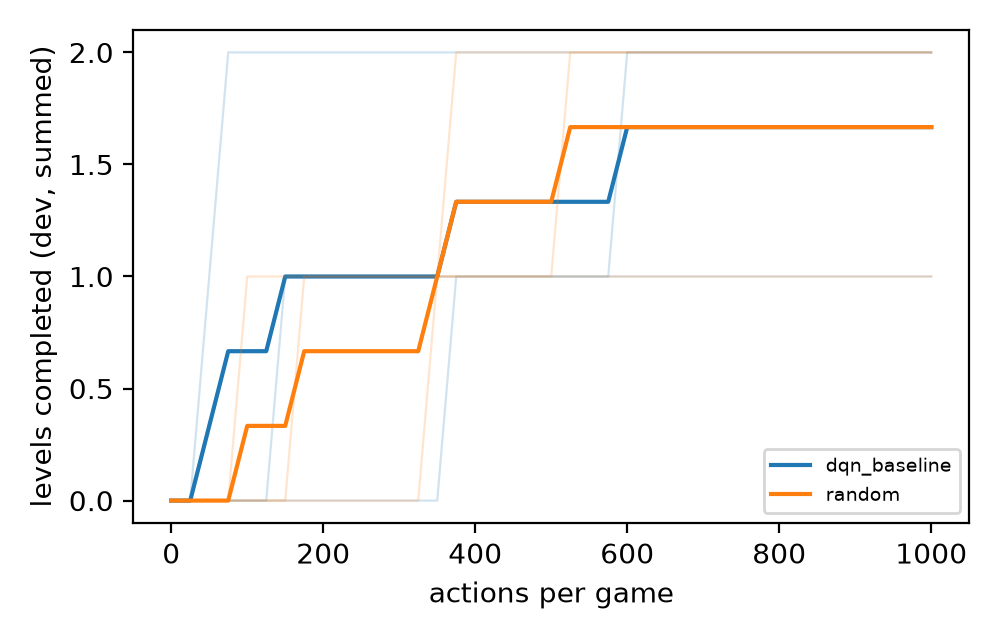
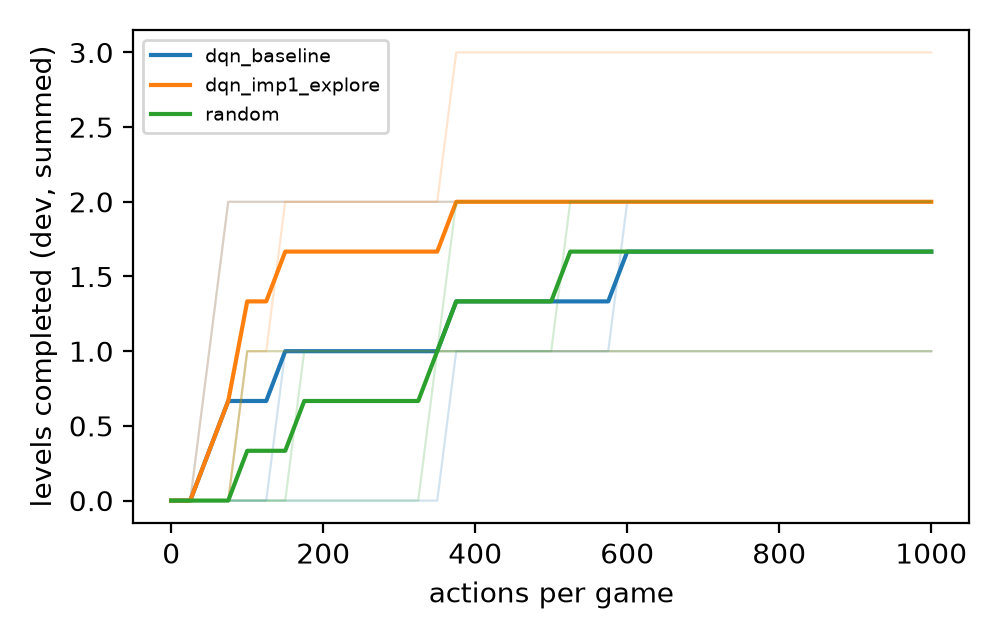
worked on improvement 1

diff --git a/scripts/diagnose_changes.py b/scripts/diagnose_changes.py
@@ -1,0 +1,113 @@
+#!/usr/bin/env python
+"""Where do frames change under a random policy? Dev games only.
+
+Tests whether per-step frame changes are driven by the agent or by a HUD/clock (e.g. a move counter),
+which would make frame-hash novelty and the frame-change bonus uninformative.
+Writes outputs/figures/change_heatmaps.png and outputs/figures/change_diagnostics.csv.
+"""
+import argparse
+from pathlib import Path
+
+import _common
+import numpy as np
+import pandas as pd
+
+from arcrl.env.actions import ActionSpace
+from arcrl.env.obs import Obs, grid_hash
+from arcrl.utils import Config, load_split
+
+
+def coarse(grid: np.ndarray, k: int = 8) -> bytes:
+    c = 64 // k
+    cells = grid.reshape(k, c, k, c).transpose(0, 2, 1, 3).reshape(k, k, -1)
+    modes = np.array([[np.bincount(v, minlength=16).argmax() for v in row] for row in cells], np.uint8)
+    return modes.tobytes()
+
+
+def run_game(arc, gid: str, steps: int, rng: np.random.Generator) -> tuple[dict, np.ndarray]:
+    from arcengine import GameAction
+
+    env = arc.make(gid, seed=0)
+    sp = ActionSpace(8)
+    obs = Obs.from_frame_data(env.observation_space)
+    freq = np.zeros((64, 64))
+    n_changed, click_changed, hashes, coarse_states = [], [], set(), set()
+    moves = 0
+    for _ in range(steps):
+        if obs.state in ("GAME_OVER", "NOT_PLAYED"):
+            obs = Obs.from_frame_data(env.reset())
+            continue
+        if obs.state == "WIN":
+            break
+        idx = int(rng.choice(np.flatnonzero(sp.mask(obs.available, obs.grid))))
+        ga, data = sp.decode(idx)
+        new = Obs.from_frame_data(env.step(ga, data=data))
+        if new.state == obs.state == "NOT_FINISHED" and new.levels == obs.levels:
+            d = new.grid != obs.grid
+            freq += d
+            n_changed.append(int(d.sum()))
+            if ga is GameAction.ACTION6:
+                click_changed.append(int(d.sum()))
+            moves += 1
+        hashes.add(grid_hash(new.grid))
+        coarse_states.add(coarse(new.grid))
+        obs = new
+    n = np.asarray(n_changed) if n_changed else np.zeros(1)
+    f = freq / max(1, moves)
+    row = {
+        "game_id": gid,
+        "moves": moves,
+        "change_rate": round(float((n > 0).mean()), 3),
+        "median_px_changed": float(np.median(n)),
+        "p90_px_changed": float(np.percentile(n, 90)),
+        "min_px_changed_when_changed": int(n[n > 0].min()) if (n > 0).any() else 0,
+        "click_change_rate": round(float((np.asarray(click_changed) > 0).mean()), 3) if click_changed else None,
+        "px_changing_every_step": int((f > 0.95).sum()),
+        "px_changing_over_half": int((f > 0.5).sum()),
+        "rows_with_hot_px": sorted(set(np.nonzero(f > 0.5)[0].tolist()))[:12],
+        "unique_frames": len(hashes),
+        "unique_coarse8": len(coarse_states),
+    }
+    return row, f
+
+
+def main():
+    ap = argparse.ArgumentParser()
+    ap.add_argument("--steps", type=int, default=300)
+    ap.add_argument("--out", default="outputs/figures")
+    args = ap.parse_args()
+    import matplotlib
+
+    matplotlib.use("Agg")
+    import matplotlib.pyplot as plt
+
+    games = load_split(Config(split="dev"))
+    arc = _common.make_arcade()
+    rng = np.random.default_rng(0)
+    rows, maps = [], []
+    for g in games:
+        r, f = run_game(arc, g, args.steps, rng)
+        rows.append(r)
+        maps.append(f)
+        print(r)
+    out = Path(args.out)
+    out.mkdir(parents=True, exist_ok=True)
+    df = pd.DataFrame(rows)
+    df.to_csv(out / "change_diagnostics.csv", index=False)
+    print(df.drop(columns=["rows_with_hot_px"]).to_string(index=False))
+    cols = 5
+    fig, axes = plt.subplots(int(np.ceil(len(games) / cols)), cols, figsize=(2.2 * cols, 2.3 * np.ceil(len(games) / cols)))
+    for ax, g, f in zip(axes.flat, games, maps):
+        ax.imshow(f, cmap="magma", vmin=0, vmax=1)
+        ax.set_title(g, fontsize=8)
+        ax.axis("off")
+    for ax in list(axes.flat)[len(games):]:
+        ax.axis("off")
+    fig.suptitle("Per-pixel change frequency per step (random policy)", fontsize=9)
+    fig.tight_layout()
+    fig.savefig(out / "change_heatmaps.png", dpi=150)
+    print("wrote", out / "change_heatmaps.png")
+
+
+if __name__ == "__main__":
+    main()

diff --git a/outputs/figures/summary.tex b/outputs/figures/summary.tex
@@ -1,9 +1,11 @@
-\begin{tabular}{llrrrrrrrrr}
+\begin{tabular}{llrrrrrrrrrrr}
 \toprule
-run_name & split & seeds & score_mean & score_std & score_ci95 & levels_mean & levels_std & wins_mean & actions_mean & wall_time_s_mean \\
+run_name & split & seeds & score_mean & score_std & score_ci95 & levels_mean & levels_std & wins_mean & actions_mean & wall_time_s_mean & change_rate_mean & unique_states_mean \\
 \midrule
-dqn_baseline & dev & 3 & 0.11 & 0.18 & 0.20 & 1.67 & 0.58 & 0.00 & 15000.00 & 2055.59 \\
-ppo_baseline & dev & 3 & 0.00 & 0.00 & 0.00 & 1.33 & 0.58 & 0.00 & 15000.00 & 808.82 \\
-random & dev & 3 & 0.01 & 0.01 & 0.01 & 1.67 & 0.58 & 0.00 & 15000.00 & 49.50 \\
+dqn_baseline & dev & 3 & 0.11 & 0.18 & 0.20 & 1.67 & 0.58 & 0.00 & 15000.00 & 1423.64 & 0.67 & 5738.00 \\
+dqn_imp1_explore & dev & 3 & 0.11 & 0.18 & 0.20 & 2.00 & 1.00 & 0.00 & 15000.00 & 1410.52 & 0.74 & 6577.00 \\
+ppo_baseline & dev & 3 & 0.00 & 0.00 & 0.00 & 1.33 & 0.58 & 0.00 & 15000.00 & 494.39 & 0.68 & 5911.33 \\
+ppo_imp1_explore & dev & 3 & 0.00 & 0.00 & 0.00 & 1.33 & 0.58 & 0.00 & 15000.00 & 1031.96 & 0.71 & 6356.00 \\
+random & dev & 3 & 0.01 & 0.01 & 0.01 & 1.67 & 0.58 & 0.00 & 15000.00 & 55.45 & 0.68 & 5922.33 \\
 \bottomrule
 \end{tabular}

diff --git a/docs/EXPERIMENT_LOG.md b/docs/EXPERIMENT_LOG.md
@@ -8,8 +8,16 @@ Hardware for all rows so far: MacBook Pro, Intel x86_64 CPU, no GPU, torch 2.2.2
 | 23 Sept | random | random.yaml | dev | 0,1,2 | 0.010 ± 0.011 | 1.67 ± 0.58 | 50 s | sanity-check floor |
 | 23 Sept | dqn_baseline | dqn_baseline.yaml | dev | 0,1,2 | 0.108 ± 0.180 | 1.67 ± 0.58 | 34 min | mean driven by seed 0 |
 | 23 Sept | ppo_baseline | ppo_baseline.yaml | dev | 0,1,2 | 0.003 ± 0.002 | 1.33 ± 0.58 | 13 min | |
+| 24 Sept | random (rerun) | random.yaml | dev | 0,1,2 | 0.010 ± 0.011 | 1.67 ± 0.58 | 55 s | identical to 23 Sept; change 0.676, unique 5922 |
+| 24 Sept | dqn_baseline (rerun) | dqn_baseline.yaml | dev | 0,1,2 | 0.108 ± 0.180 | 1.67 ± 0.58 | 24 min | identical; change 0.671, unique 5738 |
+| 24 Sept | ppo_baseline (rerun) | ppo_baseline.yaml | dev | 0,1,2 | 0.003 ± 0.002 | 1.33 ± 0.58 | 8 min | identical; change 0.675, unique 5911 |
+| 24 Sept | dqn_imp1_explore | dqn_imp1_explore.yaml | dev | 0,1,2 | 0.112 ± 0.177 | 2.00 ± 1.00 | 24 min | change 0.742, unique 6577 |
+| 24 Sept | ppo_imp1_explore | ppo_imp1_explore.yaml | dev | 0,1,2 | 0.003 ± 0.002 | 1.33 ± 0.58 | 17 min | change 0.712, unique 6356 |
 
 Budget: 1000 actions per game, 15 dev games, 15 000 actions per seed. No wins in any run.
+`change` = share of non-reset actions that changed the frame (mean over games); `unique` = distinct frames per seed
+(summed over games). Reruns reproduced every level, score and game-over count exactly: CPU runs are deterministic
+under fixed seeds. Wall time varies ±40% between runs on the same laptop, so compare it only within one session.
 
 ## Baseline findings (23 Sept)
 
@@ -43,7 +51,16 @@ Budget: 1000 actions per game, 15 dev games, 15 000 actions per seed. No wins in
   Shaping is training-only; scores stay official.
 - **Evidence to check:** `change_rate` and `unique_states` (logged from now on) against the baseline; levels and score
   against baseline and random, 3 seeds.
-- **Result:**
+- **Result (24 Sept): the mechanism works where it can, but it does not reach levels.**
+  - (a) Change rate rose from 0.671 to 0.742. The gain is concentrated in games where most actions are no-ops:
+    sb26 0.17→0.51, sc25 0.25→0.49, sk48 0.08→0.21, su15 0.64→0.93.
+  - (b) Distinct frames rose 15% (5738→6577), from below random (5922) to above it; sb26 96→296, sc25 231→414, sk48 68→178.
+  - The repetition failure is fixed: r11l game-overs fell from 75.7 to 26.3 per 1000 actions (random 46).
+  - (c) Not supported: levels 1.67→2.00 ± 1.00 and score 0.108→0.112 are within noise. The extra level is lp85 in
+    seeds 1–2 (86 and 94 actions), which is suggestive but not established with 3 seeds.
+  - In 7 games the change rate is already ≈1.0 for every agent, including random, whose actions are mostly clicks on
+    empty cells (ls20, r11l, s5i5, sp80, tn36, tu93, re86), and distinct frames are close to the action count
+    (e.g. ls20 ≈ 830 of 1000). There, both bonuses are nearly constant and carry no information.
 
 ### PPO — improvement 1 (`ppo_imp1_explore.yaml`)
 - **Observed limitation:** all-zero advantages in 12/15 games leave the policy uniform (entropy ≈ 4.25, clip fraction ≈ 0).
@@ -52,19 +69,27 @@ Budget: 1000 actions per game, 15 dev games, 15 000 actions per seed. No wins in
   per-step bonus over the rollout, while DQN learns it one bootstrapped transition at a time.
 - **Intervention:** identical shaping to DQN improvement 1, evaluated separately.
 - **Evidence to check:** entropy and clip-fraction traces, `change_rate`, `unique_states`, levels and score, 3 seeds.
-- **Result:**
+- **Result (24 Sept): smaller effect than DQN, and no gain in levels.**
+  - Change rate 0.675→0.712; distinct frames 5911→6356 (+7.5%, above random). Gains again sit in sb26
+    (0.12→0.23), sc25 (0.13→0.29) and sk48 (0.07→0.24).
+  - The policy now moves where the bonus is informative: seed 0 entropy in sb26/sc25/sk48 fell from 4.18–4.23 to
+    3.95–3.97 (max ln 70 = 4.25), and clip fraction rose to 0.18–0.35. Elsewhere it stays near uniform
+    (games restricted to 4–5 actions show entropy ≈ ln 4 = 1.39 or ln 5 = 1.61 in both versions).
+  - Levels (1.33) and score (0.003) are unchanged.
+  - The hypothesis that PPO would gain more than DQN is rejected: DQN moved more on every exploration metric.
 
-### DQN — improvement 2
-- Observed limitation:
-- Hypothesis:
-- Intervention:
-- Result:
-
-### PPO — improvement 2
-- Observed limitation:
-- Hypothesis:
-- Intervention:
-- Result:
+### Improvement 2 — decision pending a diagnostic (both algorithms)
+- **Observed limitation (both):** in 7 dev games every action changes the frame, even random clicks on empty cells, and
+  nearly every frame is new. Game-overs there occur at identical counts for all agents. The likely cause is an
+  on-screen clock or move counter. If so, a frame-hash novelty count and a changed/unchanged bonus cannot tell a
+  meaningful action from a wasted one, which explains why improvement 1 helped only in no-op-heavy games.
+- **Check first:** `scripts/diagnose_changes.py` (random policy, dev games only) measures how many pixels change per step,
+  where, and how many distinct states remain under a coarse 8×8 abstraction.
+- **If a HUD/clock is confirmed:** improvement 2 = clock-invariant exploration. Novelty and change are computed on the
+  frame with volatile pixels removed or coarsened, so the bonus reflects what the action did. It is evaluated
+  separately for DQN and PPO, and frame-stack memory moves to improvement 3 / ablation.
+- **If not confirmed:** keep frame-stack memory (`*_imp2_memory.yaml`) as planned, justified by the fixed-clock lives:
+  information must carry across frames within a life.
 
 ## Failure cases to show in the report
 | Run | Seed | Game | What happened | Evidence |

diff --git a/outputs/figures/summary.md b/outputs/figures/summary.md
@@ -1,5 +1,7 @@
-| run_name     | split   |   seeds |   score_mean |   score_std |   score_ci95 |   levels_mean |   levels_std |   wins_mean |   actions_mean |   wall_time_s_mean |
-|:-------------|:--------|--------:|-------------:|------------:|-------------:|--------------:|-------------:|------------:|---------------:|-------------------:|
-| dqn_baseline | dev     |       3 |        0.108 |       0.18  |        0.204 |         1.667 |        0.577 |           0 |          15000 |           2055.59  |
-| ppo_baseline | dev     |       3 |        0.003 |       0.002 |        0.002 |         1.333 |        0.577 |           0 |          15000 |            808.823 |
-| random       | dev     |       3 |        0.01  |       0.011 |        0.012 |         1.667 |        0.577 |           0 |          15000 |             49.5   |
+| run_name         | split   |   seeds |   score_mean |   score_std |   score_ci95 |   levels_mean |   levels_std |   wins_mean |   actions_mean |   wall_time_s_mean |   change_rate_mean |   unique_states_mean |
+|:-----------------|:--------|--------:|-------------:|------------:|-------------:|--------------:|-------------:|------------:|---------------:|-------------------:|-------------------:|---------------------:|
+| dqn_baseline     | dev     |       3 |        0.108 |       0.18  |        0.204 |         1.667 |        0.577 |           0 |          15000 |           1423.64  |              0.671 |              5738    |
+| dqn_imp1_explore | dev     |       3 |        0.112 |       0.177 |        0.2   |         2     |        1     |           0 |          15000 |           1410.52  |              0.742 |              6577    |
+| ppo_baseline     | dev     |       3 |        0.003 |       0.002 |        0.002 |         1.333 |        0.577 |           0 |          15000 |            494.387 |              0.675 |              5911.33 |
+| ppo_imp1_explore | dev     |       3 |        0.003 |       0.002 |        0.002 |         1.333 |        0.577 |           0 |          15000 |           1031.96  |              0.712 |              6356    |
+| random           | dev     |       3 |        0.01  |       0.011 |        0.012 |         1.667 |        0.577 |           0 |          15000 |             55.447 |              0.676 |              5922.33 |
